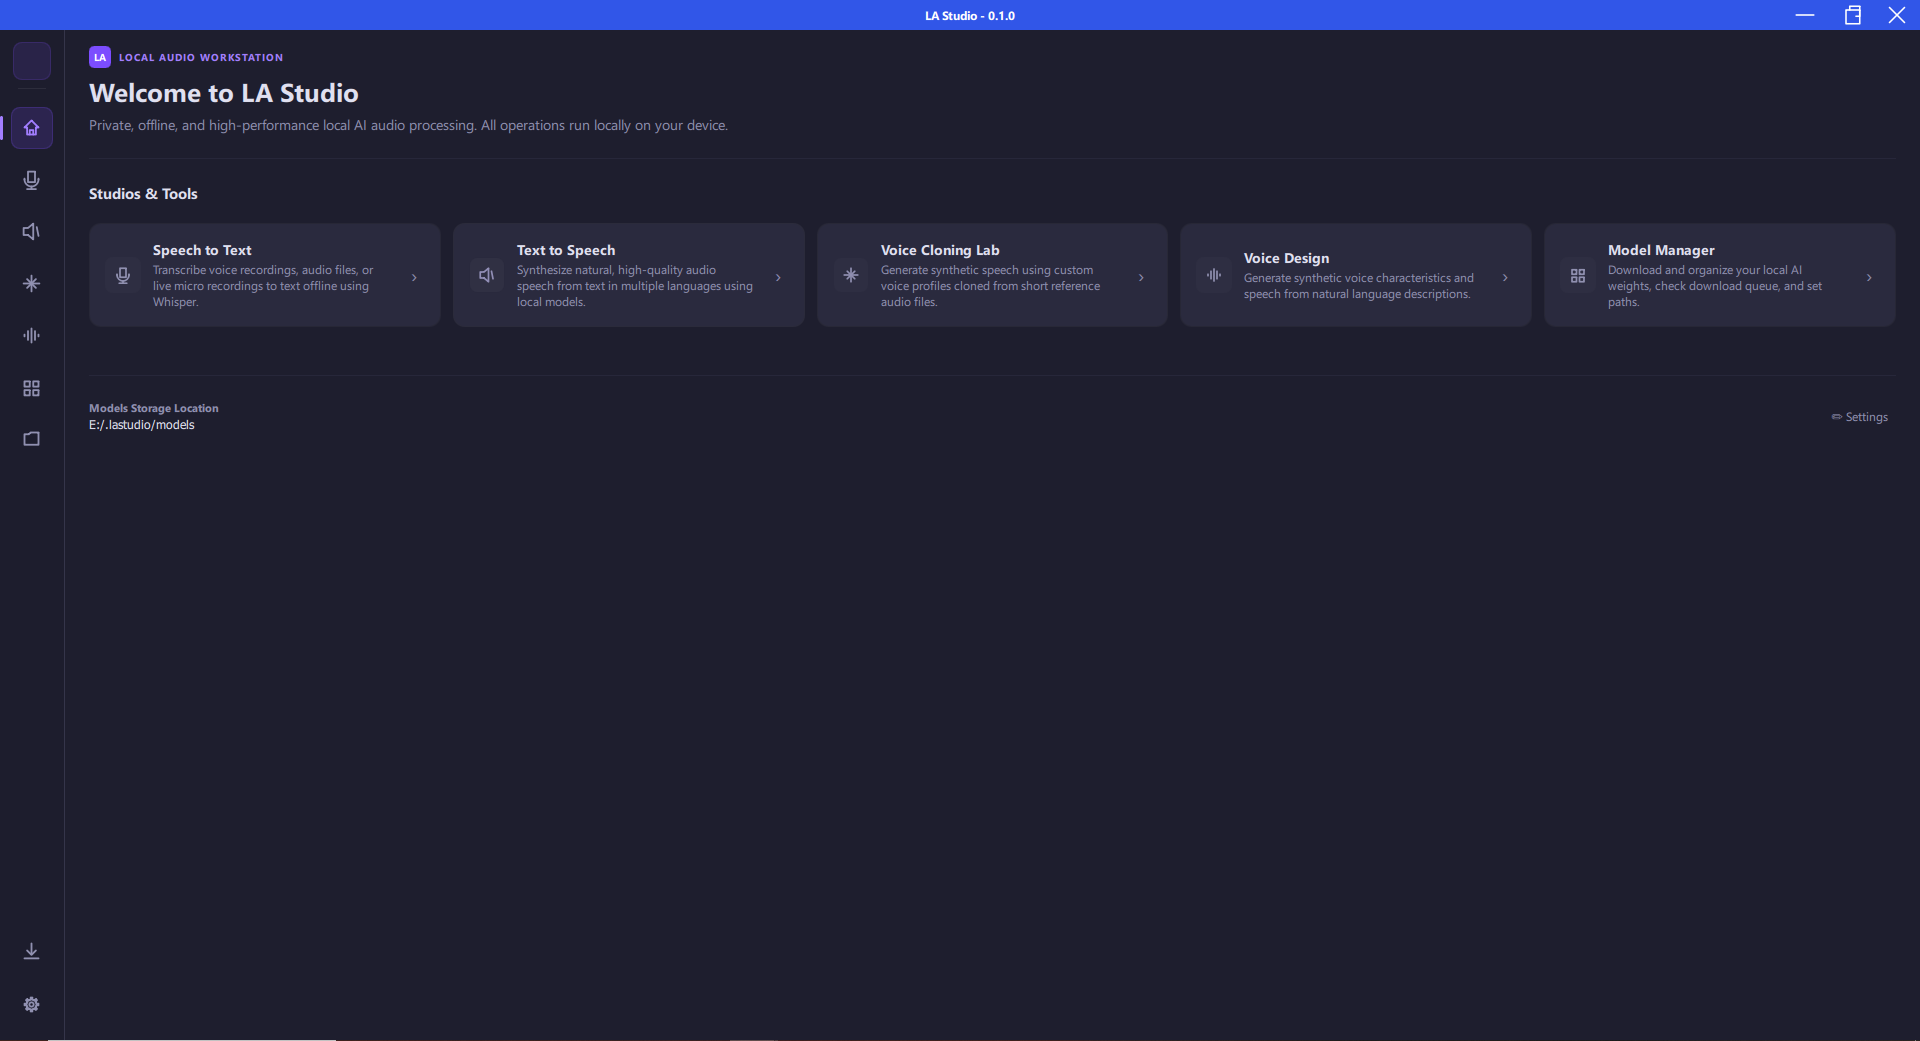
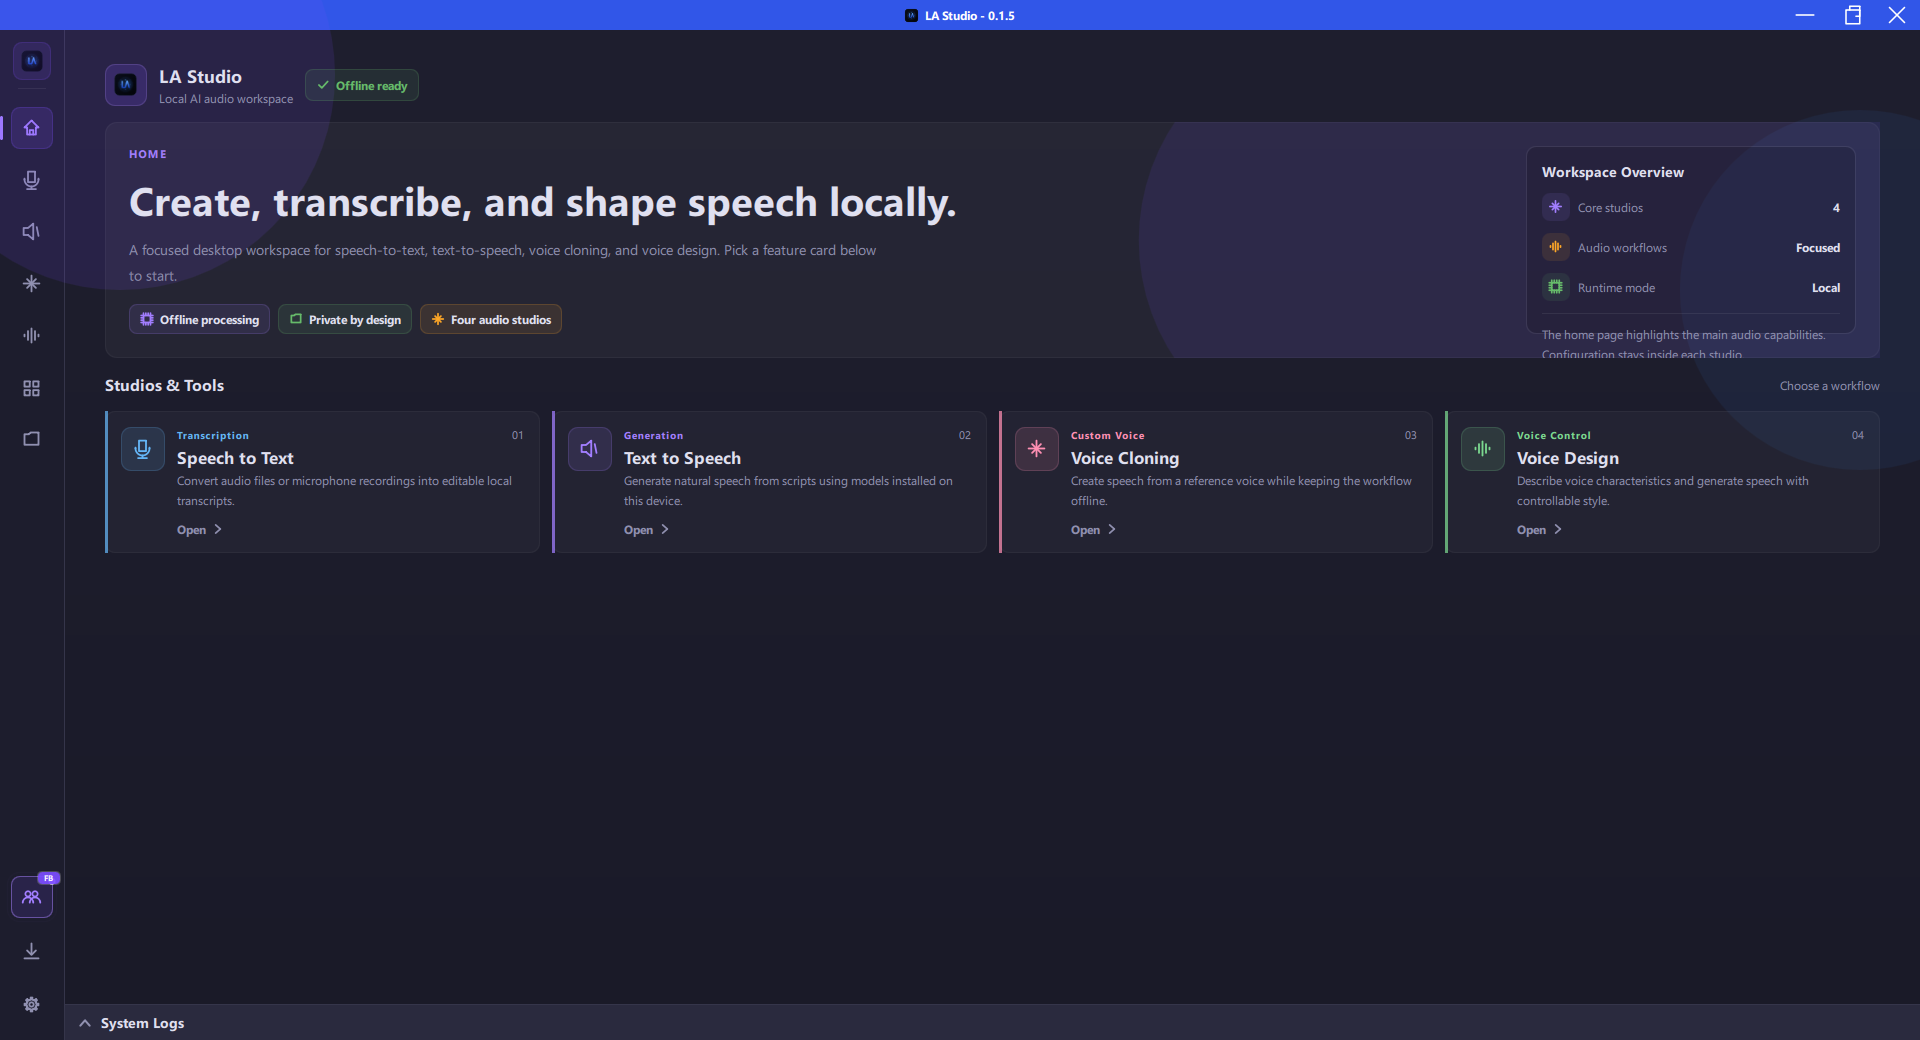
docs: add LA Studio overview screenshot to Readme

diff --git a/Readme.md b/Readme.md
@@ -31,6 +31,11 @@ Run private AI audio workflows locally: speech recognition, voice generation, vo
 [![Privacy](https://img.shields.io/badge/Privacy-Offline%20AI-success.svg)]()
 -->
 
+<br>
+<br>
+
+![LA Studio Overview](docs/screenshots/la-studio-home.PNG)
+
 </div>
 
 ---